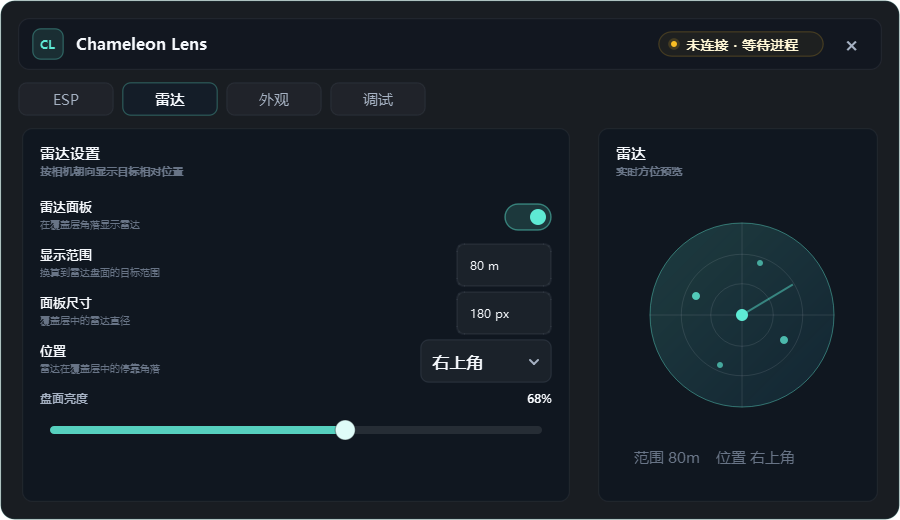
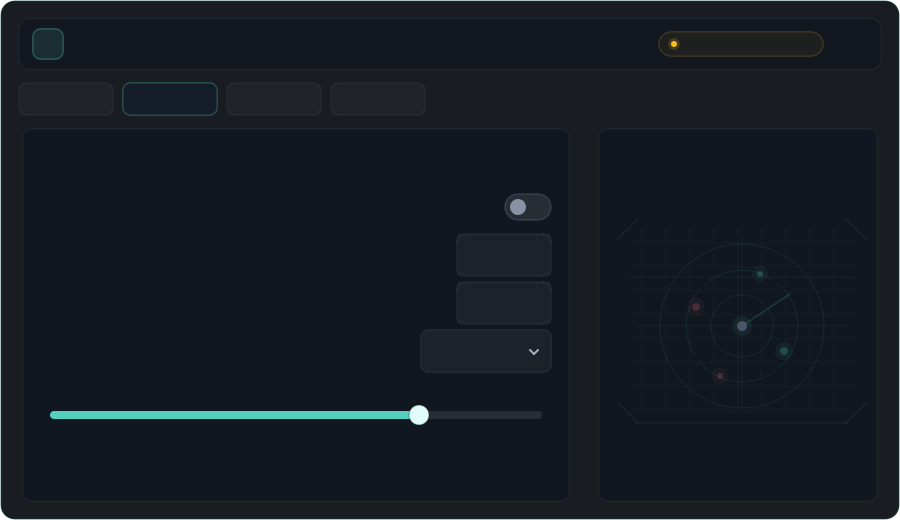
优化菜单预览与控件分组

diff --git a/chameleon_lens/ui/widgets.py b/chameleon_lens/ui/widgets.py
@@ -4,7 +4,7 @@ from PyQt5.QtWidgets import (
     QLabel, QPushButton, QSlider, QVBoxLayout, QWidget,
 )
 from PyQt5.QtCore import Qt, QPointF, QRectF, QPropertyAnimation, QEasingCurve, pyqtProperty
-from PyQt5.QtGui import QPainter, QPen, QColor, QFont, QLinearGradient
+from PyQt5.QtGui import QPainter, QPen, QColor, QFont
 
 from ..config import Config
 
@@ -136,6 +136,39 @@ class LogoBadge(QWidget):
 
 def _ease_mix(start, end, progress):
     return int(round(start + (end - start) * max(0.0, min(1.0, progress))))
+
+
+def _draw_hud_canvas(painter, scene, active=True):
+    painter.save()
+    grid_alpha = 18 if active else 9
+    accent_alpha = 34 if active else 14
+    painter.setBrush(Qt.NoBrush)
+    painter.setPen(QPen(QColor(148, 163, 184, grid_alpha), 1))
+
+    x = scene.left() + 24
+    while x < scene.right() - 8:
+        painter.drawLine(QPointF(x, scene.top() + 10), QPointF(x, scene.bottom() - 10))
+        x += 24
+
+    y = scene.top() + 24
+    while y < scene.bottom() - 8:
+        painter.drawLine(QPointF(scene.left() + 10, y), QPointF(scene.right() - 10, y))
+        y += 24
+
+    painter.setPen(QPen(QColor(94, 234, 212, accent_alpha), 1))
+    scan_y = scene.top() + 58
+    painter.drawLine(QPointF(scene.left() + 12, scan_y), QPointF(scene.right() - 12, scan_y))
+
+    corner_len = 20
+    painter.setPen(QPen(QColor(94, 234, 212, accent_alpha + 10), 1.2))
+    for x1, y1, x2, y2 in [
+        (scene.left() + corner_len, scene.top(), scene.left(), scene.top() + corner_len),
+        (scene.right() - corner_len, scene.top(), scene.right(), scene.top() + corner_len),
+        (scene.left(), scene.bottom() - corner_len, scene.left() + corner_len, scene.bottom()),
+        (scene.right(), scene.bottom() - corner_len, scene.right() - corner_len, scene.bottom()),
+    ]:
+        painter.drawLine(QPointF(x1, y1), QPointF(x2, y2))
+    painter.restore()
 
 
 class AnimatedPaintButton(QPushButton):
@@ -417,6 +450,7 @@ class EspPreview(QWidget):
         painter.drawText(2, 20, "目标视图")
 
         scene = QRectF(2, 36, self.width() - 4, 204)
+        _draw_hud_canvas(painter, scene, self.config.esp_enabled)
         origin = QPointF(scene.center().x(), scene.bottom() - 8)
         hunter = QColor(*self.config.hunter_color)
         survivor = QColor(*self.config.survivor_color)
@@ -480,36 +514,53 @@ class RadarPreview(QWidget):
         painter = QPainter(self)
         painter.setRenderHint(QPainter.Antialiasing)
         enabled = self.config.radar_enabled
-        cx, cy, radius = self.width() / 2, 122, 92
-        gradient = QLinearGradient(cx - radius, cy - radius, cx + radius, cy + radius)
-        gradient.setColorAt(0.0, QColor(94, 234, 212, 44 if enabled else 14))
-        gradient.setColorAt(1.0, QColor(56, 189, 248, 22 if enabled else 8))
-        painter.setPen(QPen(QColor(94, 234, 212, 105 if enabled else 34), 1))
-        painter.setBrush(gradient)
-        painter.drawEllipse(QPointF(cx, cy), radius, radius)
+        scene = QRectF(2, 36, self.width() - 4, 204)
+        center = QPointF(scene.center().x(), scene.center().y() + 5)
+        radius = 82
+
+        painter.setPen(QPen(QColor("#f4f7fb")))
+        painter.setFont(QFont("Microsoft YaHei UI", 11, QFont.Bold))
+        painter.drawText(2, 20, "雷达视图")
+
+        _draw_hud_canvas(painter, scene, enabled)
+        hud_alpha = 58 if enabled else 22
         painter.setBrush(Qt.NoBrush)
-        painter.setPen(QPen(QColor(226, 232, 240, 28 if enabled else 14), 1))
-        for scale in (0.34, 0.66):
-            painter.drawEllipse(QPointF(cx, cy), radius * scale, radius * scale)
-        painter.drawLine(int(cx - radius), int(cy), int(cx + radius), int(cy))
-        painter.drawLine(int(cx), int(cy - radius), int(cx), int(cy + radius))
-        painter.setPen(QPen(QColor(94, 234, 212, 115 if enabled else 38), 2))
-        painter.drawLine(int(cx), int(cy), int(cx + 50), int(cy - 30))
+        painter.setPen(QPen(QColor(148, 163, 184, 18), 1))
+        painter.drawLine(QPointF(scene.left() + 18, center.y()), QPointF(scene.right() - 18, center.y()))
+        painter.drawLine(QPointF(center.x(), scene.top() + 16), QPointF(center.x(), scene.bottom() - 16))
+
+        painter.setPen(QPen(QColor(94, 234, 212, hud_alpha), 1))
+        for scale in (0.38, 0.68, 1.0):
+            range_r = radius * scale
+            painter.drawEllipse(center, range_r, range_r)
+
+        painter.setPen(QPen(QColor(94, 234, 212, 126 if enabled else 40), 1.6))
+        painter.drawLine(center, QPointF(center.x() + 48, center.y() - 32))
+
         painter.setPen(Qt.NoPen)
+        painter.setBrush(QColor(94, 234, 212, 42 if enabled else 16))
+        painter.drawEllipse(center, 10, 10)
         painter.setBrush(QColor("#5eead4") if enabled else QColor("#4b5563"))
-        painter.drawEllipse(QPointF(cx, cy), 6, 6)
+        painter.drawEllipse(center, 5, 5)
+
         hunter = QColor(*self.config.hunter_color)
         survivor = QColor(*self.config.survivor_color)
-        point_alpha = 190 if enabled else 52
-        for dx, dy, size, color in [(-46, -19, 4, hunter), (42, 25, 4, survivor),
-                                    (18, -52, 3, survivor), (-22, 50, 3, hunter)]:
+        point_alpha = 196 if enabled else 52
+        targets = [(-46, -19, 4, hunter), (42, 25, 4, survivor),
+                   (18, -52, 3, survivor), (-22, 50, 3, hunter)]
+        for dx, dy, size, color in targets:
+            point = QPointF(center.x() + dx, center.y() + dy)
+            painter.setBrush(QColor(color.red(), color.green(), color.blue(), 40 if enabled else 12))
+            painter.drawEllipse(point, size + 5, size + 5)
             painter.setBrush(QColor(color.red(), color.green(), color.blue(), point_alpha))
-            painter.drawEllipse(QPointF(cx + dx, cy + dy), size, size)
+            painter.drawEllipse(point, size, size)
 
-        painter.setPen(QPen(QColor("#687486")))
-        painter.setFont(QFont("Microsoft YaHei UI", 11))
+        painter.setPen(QPen(QColor(148, 163, 184, 28), 1))
+        painter.drawLine(QPointF(scene.left() + 18, scene.bottom()), QPointF(scene.right() - 18, scene.bottom()))
+        painter.setPen(QPen(QColor("#a5b1c2")))
+        painter.setFont(QFont("Microsoft YaHei UI", 10))
         state = "开" if enabled else "关"
-        painter.drawText(18, 270, f"雷达{state} · 范围 {self.config.radar_range}m · {self.config.radar_position}")
+        painter.drawText(2, 266, f"雷达{state} · 范围 {self.config.radar_range}m · {self.config.radar_position}")
 
 
 class AppearancePreview(QWidget):
@@ -563,7 +614,7 @@ class ColorSwatchButton(AnimatedPaintButton):
         self.title = title
         self.color = color
         self.setCursor(Qt.PointingHandCursor)
-        self.setFixedSize(176, 42)
+        self.setFixedSize(122, 62)
 
     def set_color(self, color):
         self.color = color
@@ -573,24 +624,26 @@ class ColorSwatchButton(AnimatedPaintButton):
         painter = QPainter(self)
         painter.setRenderHint(QPainter.Antialiasing)
         hover = self.hoverProgress
-        border = QColor(94, 234, 212, _ease_mix(38, 104, hover))
+        border = QColor(94, 234, 212, _ease_mix(32, 92, hover))
         painter.setPen(QPen(border, 1.2))
-        painter.setBrush(QColor(255, 255, 255, _ease_mix(10, 16, hover)))
+        painter.setBrush(QColor(255, 255, 255, _ease_mix(8, 14, hover)))
         painter.drawRoundedRect(QRectF(0.8, 0.8, self.width() - 1.6, self.height() - 1.6), 9, 9)
 
         swatch = QColor(*self.color)
-        painter.setPen(Qt.NoPen)
-        painter.setBrush(QColor(swatch.red(), swatch.green(), swatch.blue(), 46))
-        painter.drawEllipse(QPointF(22, 21), 12, 12)
-        painter.setBrush(swatch)
-        painter.drawEllipse(QPointF(22, 21), 7, 7)
+        # 色板用横向色条表达主色，比圆点按钮更接近专业调色面板。
+        swatch_rect = QRectF(8, 8, self.width() - 16, 22)
+        painter.setPen(QPen(QColor(255, 255, 255, 34), 1))
+        painter.setBrush(QColor(swatch.red(), swatch.green(), swatch.blue(), 232))
+        painter.drawRoundedRect(swatch_rect, 6, 6)
+        painter.setPen(QPen(QColor(swatch.red(), swatch.green(), swatch.blue(), 92), 1))
+        painter.drawLine(QPointF(13, 35), QPointF(self.width() - 13, 35))
 
         painter.setPen(QPen(QColor("#f4f7fb")))
-        painter.setFont(QFont("Microsoft YaHei UI", 10, QFont.DemiBold))
-        painter.drawText(44, 18, self.title)
+        painter.setFont(QFont("Microsoft YaHei UI", 9, QFont.DemiBold))
+        painter.drawText(QRectF(8, 37, self.width() - 16, 13), Qt.AlignCenter, self.title)
         painter.setPen(QPen(QColor("#a5b1c2")))
-        painter.setFont(QFont("Microsoft YaHei UI", 9))
-        painter.drawText(44, 33, "#{:02X}{:02X}{:02X}".format(*self.color))
+        painter.setFont(QFont("Microsoft YaHei UI", 8))
+        painter.drawText(QRectF(8, 50, self.width() - 16, 10), Qt.AlignCenter, "#{:02X}{:02X}{:02X}".format(*self.color))
 
 
 class ColorPreviewBox(QWidget):

diff --git a/chameleon_lens/ui/menu.py b/chameleon_lens/ui/menu.py
@@ -30,6 +30,7 @@ class Menu(QWidget):
         self.radar_previews = []
         self.appearance_previews = []
         self.local_ray_switch = None
+        self.local_ray_row = None
         self.slider_controls = {}
         self._config_save_timer = QTimer(self)
         self._config_save_timer.setSingleShot(True)
@@ -141,35 +142,45 @@ class Menu(QWidget):
         body.setSpacing(24)
 
         panel, layout = self._panel("ESP 显示", "目标点、标签和射线控制", 548)
-        grid = QGridLayout()
-        grid.setContentsMargins(0, 0, 0, 0)
-        grid.setHorizontalSpacing(18)
-        grid.setVerticalSpacing(2)
-
-        controls = [
+        basic_controls = [
             ("覆盖层", "启用透明窗口绘制", "enabled", None),
             ("ESP 绘制", "控制目标点、标签和射线", "esp_enabled", self._refresh_ray_dependencies),
-            ("猎人 ESP", "显示猎人的点、标签和雷达点", "show_hunter_esp", None),
             ("目标圆点", "以低干扰点位标记目标", "box_esp", None),
+            ("边缘提示", "屏幕外目标钳到边缘显示", "show_edge_indicators", None),
+        ]
+        label_ray_controls = [
             ("名称标签", "显示目标名称", "show_names", None),
             ("距离标签", "显示目标距离", "show_distance", None),
             ("本地标记", "显示自己的点位", "show_local", self._refresh_ray_dependencies),
             ("ESP 射线", "从底部绘制目标指向线", "snap_lines", self._refresh_ray_dependencies),
             ("自身射线", "需开启本地标记与 ESP 射线", "show_local_snap_line", None),
-            ("边缘提示", "屏幕外目标钳到边缘显示", "show_edge_indicators", None),
+            ("猎人 ESP", "显示猎人的点、标签和雷达点", "show_hunter_esp", None),
         ]
-        for index, (label, desc, attr, after_change) in enumerate(controls):
-            switch = self._switch_control(attr, after_change)
-            if attr == "show_local_snap_line":
-                self.local_ray_switch = switch
-            grid.addWidget(self._control_row(label, desc, switch, height=56), index // 2, index % 2)
 
-        layout.addLayout(grid)
+        layout.addWidget(self._section_label("基础显示"))
+        layout.addLayout(self._switch_grid(basic_controls))
+        layout.addSpacing(12)
+        layout.addWidget(self._section_label("标签与射线"))
+        layout.addLayout(self._switch_grid(label_ray_controls))
         layout.addStretch()
         self._refresh_ray_dependencies()
         body.addWidget(panel)
         body.addWidget(self._esp_preview_panel())
         return page
+
+    def _switch_grid(self, controls):
+        grid = QGridLayout()
+        grid.setContentsMargins(0, 8, 0, 0)
+        grid.setHorizontalSpacing(18)
+        grid.setVerticalSpacing(2)
+        for index, (label, desc, attr, after_change) in enumerate(controls):
+            switch = self._switch_control(attr, after_change)
+            row = self._control_row(label, desc, switch, height=56)
+            if attr == "show_local_snap_line":
+                self.local_ray_switch = switch
+                self.local_ray_row = row
+            grid.addWidget(row, index // 2, index % 2)
+        return grid
 
     def _build_radar_page(self):
         page = QWidget()
@@ -210,15 +221,17 @@ class Menu(QWidget):
         self.btn_survivor_color = self._color_button("躲藏者颜色", self.config.survivor_color, self._pick_survivor_color)
         self.btn_enemy_color = self._color_button("默认目标", self.config.enemy_color, self._pick_enemy_color)
         self.btn_local_color = self._color_button("本地颜色", self.config.local_color, self._pick_local_color)
-        color_grid = QGridLayout()
-        color_grid.setContentsMargins(0, 8, 0, 0)
-        color_grid.setHorizontalSpacing(14)
-        color_grid.setVerticalSpacing(10)
-        color_grid.addWidget(self.btn_hunter_color, 0, 0)
-        color_grid.addWidget(self.btn_survivor_color, 0, 1)
-        color_grid.addWidget(self.btn_enemy_color, 1, 0)
-        color_grid.addWidget(self.btn_local_color, 1, 1)
-        layout.addLayout(color_grid)
+        color_row = QHBoxLayout()
+        color_row.setContentsMargins(0, 8, 0, 0)
+        color_row.setSpacing(8)
+        for button in (
+            self.btn_hunter_color,
+            self.btn_survivor_color,
+            self.btn_enemy_color,
+            self.btn_local_color,
+        ):
+            color_row.addWidget(button)
+        layout.addLayout(color_row)
         layout.addSpacing(18)
         reset_row = QHBoxLayout()
         reset_row.setContentsMargins(0, 0, 0, 0)
@@ -346,7 +359,18 @@ class Menu(QWidget):
         text_col.addStretch()
         row.addLayout(text_col, 1)
         row.addWidget(control)
+        frame.title_label = title_label
+        frame.desc_label = desc_label
+        frame.control = control
         return frame
+
+    def _set_row_enabled(self, row, enabled):
+        row.setEnabled(enabled)
+        title_color = "#f4f7fb" if enabled else "#6b7687"
+        desc_color = "#687486" if enabled else "#3f4a5a"
+        row.title_label.setStyleSheet(f"color: {title_color}; font-size: 13px; font-weight: 600;")
+        row.desc_label.setStyleSheet(f"color: {desc_color}; font-size: 10px; font-weight: 400;")
+        row.control.setEnabled(enabled)
 
     def _info_row(self, label, value):
         frame = QFrame()
@@ -492,12 +516,13 @@ class Menu(QWidget):
         save_config(self.config)
 
     def _refresh_ray_dependencies(self):
-        if not self.local_ray_switch:
+        if not self.local_ray_switch or not self.local_ray_row:
             return
         enabled = self.config.esp_enabled and self.config.snap_lines and self.config.show_local
-        self.local_ray_switch.setEnabled(enabled)
+        self._set_row_enabled(self.local_ray_row, enabled)
         tip = "" if enabled else "需先开启 ESP 绘制、本地标记和 ESP 射线"
         self.local_ray_switch.setToolTip(tip)
+        self.local_ray_row.setToolTip(tip)
 
     def _refresh_preview(self):
         for preview in self.esp_previews:

diff --git a/DEVELOPMENT.md b/DEVELOPMENT.md
@@ -46,13 +46,13 @@
 - 运行依赖统一通过项目内 `.venv` 管理，用户入口优先使用 `启动 Chameleon Lens.bat`。
 - 配置持久化使用项目根目录 `config.json`。当前配置字段数量少、结构固定，JSON 比 SQLite 更轻，便于手动排查和迁移；保存采用临时文件替换，避免写入中断导致配置损坏。
 - UI 信息架构按 `ESP / 雷达 / 外观 / 调试` 四个顶部页签组织：ESP 页只放目标点、标签和射线控制，雷达页只放雷达与参数，外观页只放透明度、点半径和颜色。
-- ESP 页使用两列开关布局和 ESP 效果预览；雷达预览只出现在雷达页，避免一个页签同时承载两个主题。
+- ESP 页使用“基础显示 / 标签与射线”两组开关和 ESP 效果预览；雷达预览只出现在雷达页，避免一个页签同时承载两个主题。
 - 运行状态放在标题栏右上角；标题栏只保留品牌、连接状态和窗口控制，不再显示透明度胶囊或副标题。
 - 连接状态使用自绘状态胶囊，标题栏只显示单行主状态：“未连接 · 等待进程”或“已连接 · 游戏进程”；详细错误和重试信息放在调试页。
 - 滑条使用可点击轨道控件并通过 `QPainter` 自绘，避免 QSS 滑条在圆角和 handle 上出现毛刺；开关需要让整个控件区域都可点击。
 - 开关使用 `QPropertyAnimation` 做短距离滑动动画，动画时间保持在 150ms 左右，避免影响工具响应感。
 - 主要容器、标题栏和内容面板使用 `SmoothFrame` 自绘，避免 QSS 的半透明圆角边框毛刺。
-- 顶部页签使用 `TabButton` 自绘，不再使用底部横条。Qt StyleSheet 的 `border + border-radius + 半透明背景` 在 Windows 上容易出现圆角毛刺，Logo、关闭按钮、关键按钮、调色板候选色、颜色预览和主要操作按钮优先用 `QPainter` 抗锯齿绘制。
+- 顶部页签使用 `TabButton` 自绘，不再使用底部横条。Qt StyleSheet 的 `border + border-radius + 半透明背景` 在 Windows 上容易出现圆角毛刺，Logo、关闭按钮、关键按钮、调色板候选色、颜色预览和主要操作按钮优先用 `QPainter` 抗锯齿绘制。ESP 与雷达预览共享开放 HUD 画布，用低透明网格、扫描线和角标填补空白，但不再增加内层卡片边框。
 - 自绘按钮、页签、关闭按钮和调色板候选色使用轻量 hover 过渡；滑条在 hover/拖动时改变轨道与滑块状态，提升可操作感但不做夸张动效。
 - `enabled` 是覆盖层总开关；`esp_enabled` 只控制屏幕 ESP 绘制，关闭后目标点、标签、射线和边缘提示都不画，但雷达仍由 `radar_enabled` 独立控制。
 - 覆盖层分离三个刷新节奏：绘制约 60 FPS，目标快照采样约 30 FPS，窗口位置和尺寸约每 250ms 更新一次。不要直接把绘制 timer 拉高来解决感知问题，先看调试日志里的 `performance.sample_ms` 和 `performance.paint_ms`。
@@ -61,7 +61,7 @@
 - 名称标签优先读取 `APlayerState::CustomPlayerName`，按 FText/FString 都尝试；失败后再读 `APlayerState::PlayerNamePrivate` 的 FString，最后才回退为“玩家 短 ID”、`PlayerId` 或“目标 N”。短 ID 不再用 `#xxxxxx`，避免和颜色 Hex 格式混淆。`CustomPlayerName`、`PlayerNamePrivate`、`PlayerId` 都采用动态属性解析优先，失败时使用历史日志确认过的 `0x388`、`0x340`、`0x2AC` 兜底。PlayerState 显示名会短时缓存，只有开启数据记录时才写入完整 `name_candidates`。
 - 名称候选只允许中文、英文、数字和少量昵称符号；`BP_`、`MI_`、`Default__`、`Character`、`Material` 等蓝图/资源/对象标识会被过滤，避免覆盖层显示乱码或内部对象名。
 - `snap_lines` 控制普通 ESP 射线；`show_local_snap_line` 只控制本地玩家是否绘制自身 ESP 射线。
-- `show_local_snap_line` 依赖 `show_local` 与 `snap_lines`，两者任一关闭时自身射线开关置灰但保留用户选择。
+- `show_local_snap_line` 依赖 `esp_enabled`、`show_local` 与 `snap_lines`，任一关闭时自身射线整行降权置灰但保留用户选择。
 - 覆盖层默认只使用 PlayerArray，不再使用 Level Actor fallback 参与实际绘制，避免场景残留、尸体和旧实例混进覆盖层。`reader.iter_players()` 返回 `TargetSnapshot`，旧五元组迭代仍保留兼容。
 - 目标枚举采用极简策略：PlayerArray 里除本地玩家和死亡/观战 pawn 外全部进入绘制流程，不再用 Character 白名单或反向绑定延迟过滤。`SpectatePawn` 不再直接等价死亡：先检查 `SpectatePawn + 0x1A0` 是否指向真实 Character，且该 Character 的 `LastMyPlayerState` 或 `APawn::PlayerState` 匹配当前 PlayerState、`Dead=0`、坐标有效；命中时使用真实 Character 绘制并计入 `pa_linked`，否则才计入 `pa_dead`。
 - 类名用于角色和形态分类：`Hunter` 记为猎人，`Survivor` 记为躲藏者，`Spectate` 记为观战；形态从类名中的 `Cube`、`Base` 等 token 推断。感染、基础、双重模式都会让同一 PlayerState 在躲藏者、猎人、观战之间合法切换，因此不能把“曾经是躲藏者”当永久身份。
@@ -81,7 +81,7 @@
 - 配置包含 `config_version`；升级默认配色时只迁移精确等于旧默认值的颜色，避免覆盖用户自定义颜色。
 - 右上角关闭按钮用于退出程序，并需要保留 hover 反馈。
 - 颜色选择使用项目内自定义深色面板，避免调用系统默认 `QColorDialog`。
-- 外观页按“绘制参数 / 颜色方案”分区，透明度和圆点半径并排使用滑条，颜色用自绘色块按钮，并提供“恢复默认外观”。
+- 外观页按“绘制参数 / 颜色方案”分区，透明度和圆点半径并排使用滑条，颜色用横向自绘色板列表，并提供“恢复默认外观”。
 - 新 UI 可以参考深色工具台风格，但当前更适合顶部 Tab 和精简仪器面板；功能边界保持 `ESP + 雷达`，不引入无关自动化模块。
 - PyQt5 菜单保持轻量单文件实现，避免在当前小项目中过早引入额外 UI 框架。
 - 含中文文件统一按 UTF-8 读写；PowerShell 读取时先切换 `chcp 65001` 并使用 `Get-Content -Encoding UTF8`。

diff --git a/docs/UI_CONCEPT.md b/docs/UI_CONCEPT.md
@@ -19,7 +19,9 @@
 - `docs/ui_concept_v4.png`：第四版回到顶部 Tab 结构，配色统一收敛到深蓝黑 + 青绿色，保留 V3 的卡片层级和雷达视觉中心。
 - `docs/ui_concept_v5.png`：第五版收敛为精简仪器面板，窗口尺寸 900 x 520，收窄外层内边距，放大字号和行高，去掉总览大屏、主界面日志和状态卡，保留 `ESP / 雷达 / 外观 / 调试` 顶部 Tab、自绘连接状态胶囊、动画开关、ESP 两列开关区和右侧 ESP 效果预览。
 - `docs/ui_actual_v2.png`：真实 PyQt 菜单离屏渲染图。当前 Qt offscreen 环境可能不渲染控件文字，主要用于检查控件布局与尺寸。
-- `docs/ui_actual_v5.png`：V5 真实 PyQt 菜单离屏渲染图，用于检查窗口尺寸、控件布局和页签切换后的结构。
+- `docs/ui_actual_v5.png`：V5 真实 PyQt 菜单离屏渲染图，用于检查 ESP 分组、HUD 预览画布、窗口尺寸和页签切换后的结构。
+- `docs/ui_radar_tab.png`：雷达页真实 PyQt 菜单离屏渲染图，用于检查雷达预览和 ESP 预览的开放 HUD 风格是否一致。
+- `docs/ui_actual_appearance.png`：外观页真实 PyQt 菜单离屏渲染图，用于检查横向色板、滑条和外观预览。
 - `docs/ui_color_picker.png`：自定义深色颜色选择面板，替代系统默认颜色对话框。
 
-当前 PyQt 菜单已按 V5 方向落地：保持横向矩形和顶部 Tab，但避免仪表盘化。ESP 页只显示目标点、名称、距离、本地标记和射线控制，并提供对应 ESP 预览；雷达页显示雷达参数和方位预览；外观页按“绘制参数 / 颜色方案”分区处理透明度、圆点半径和颜色，并提供恢复默认外观。控制项标题和说明采用紧凑两行布局，避免说明文字与标题被拉开。顶部 Tab 不使用底部横条，主容器、标题栏、内容面板、Logo、关键按钮、关闭按钮、状态胶囊、开关、滑条、调色板候选色和颜色预览优先采用自绘抗锯齿，避免 Qt StyleSheet 圆角边框毛刺。自绘按钮和页签保留轻量 hover 过渡，滑条在 hover/拖动时给出反馈。目标进程未出现时，覆盖层保持透明安静，不再在屏幕上绘制等待提示卡。菜单仅标题栏可拖动，右上角关闭按钮用于退出程序。
+当前 PyQt 菜单已按 V5 方向落地：保持横向矩形和顶部 Tab，但避免仪表盘化。ESP 页按“基础显示 / 标签与射线”分组，依赖未满足的“自身射线”会整行降权；右侧 ESP 与雷达预览共享开放 HUD 画布，用轻量网格、扫描线和角标减少空白感，但不增加内框堆叠。雷达页显示雷达参数和方位预览；外观页按“绘制参数 / 颜色方案”分区处理透明度、圆点半径和横向色板，并提供恢复默认外观。控制项标题和说明采用紧凑两行布局，避免说明文字与标题被拉开。顶部 Tab 不使用底部横条，主容器、标题栏、内容面板、Logo、关键按钮、关闭按钮、状态胶囊、开关、滑条、调色板候选色和颜色预览优先采用自绘抗锯齿，避免 Qt StyleSheet 圆角边框毛刺。自绘按钮和页签保留轻量 hover 过渡，滑条在 hover/拖动时给出反馈。目标进程未出现时，覆盖层保持透明安静，不再在屏幕上绘制等待提示卡。菜单仅标题栏可拖动，右上角关闭按钮用于退出程序。

diff --git a/README.md b/README.md
@@ -11,13 +11,15 @@
 - 覆盖层绘制、目标采样和窗口位置更新分离，减少每帧重复读内存和查找窗口带来的卡顿。
 - 提供一键启动批处理，会自动创建 `.venv` 并安装依赖。
 - 横向精简仪器面板，顶部页签按 ESP、雷达、外观、调试组织，运行状态显示在标题栏右上角。
+- ESP 页按“基础显示 / 标签与射线”分组，依赖项禁用时整行降权，减少误操作。
+- ESP 和雷达预览统一为开放 HUD 画布，用轻量网格、扫描线和角标补足画面，不再堆叠内层卡片。
 - 菜单仅标题栏可拖动，右上角关闭按钮会退出程序。
 - 自绘连接状态胶囊、动画开关、hover 按钮和可点击滑条，避免系统默认控件破坏整体质感。
 - 自定义深色颜色选择面板，不调用系统默认颜色对话框。
 - 支持独立 ESP 绘制、猎人 ESP 过滤、目标圆点、边缘提示、名称标签、距离标签、本地标记、ESP 射线、自身射线、真实雷达和调试计数开关。
 - 名称标签会优先尝试读取 PlayerState 玩家昵称；读取不到昵称时自动回退为“玩家 短 ID”、玩家 ID 或“目标 N”，避免 `#xxxxxx` 看起来像颜色值。
 - 阵亡/观战过滤以 PlayerArray 中的 `SpectatePawn` 类名为主，调试统计中计入 `pa_dead`；如果 `SpectatePawn` 仍指向一个 `Dead=0` 且 `LastMyPlayerState` 匹配的真实 Character，会改用该 Character 绘制并计入 `pa_linked`。猎人 ESP 过滤会做短时身份防抖，避免瞬时 `Hunter` 抖动立刻隐藏目标。
-- 可按类名区分猎人、躲藏者和变身形态，外观页支持分别配置猎人、躲藏者、本地和默认目标颜色。
+- 可按类名区分猎人、躲藏者和变身形态，外观页支持用横向色板分别配置猎人、躲藏者、本地和默认目标颜色。
 - 菜单设置会自动保存到项目根目录的 `config.json`，下次启动自动恢复。
 - 外观页支持恢复默认外观，方便快速回退颜色、圆点半径和菜单透明度。
 - 提供 `debug_life_state.py` 用于记录存活/阵亡前后的玩家数据，并可用 `debug_life_state.py names` 扫描玩家昵称候选字段。

diff --git a/docs/DEVELOPMENT_GUIDE.md b/docs/DEVELOPMENT_GUIDE.md
@@ -48,7 +48,7 @@
 涉及 UI 布局：
 
 - 重新生成 `docs/ui_actual_v5.png`。
-- 检查主窗口、调色板和对应页签截图。
+- 检查主窗口、ESP 分组、雷达页、外观页横向色板和调色板截图。
 
 涉及目标过滤：
 